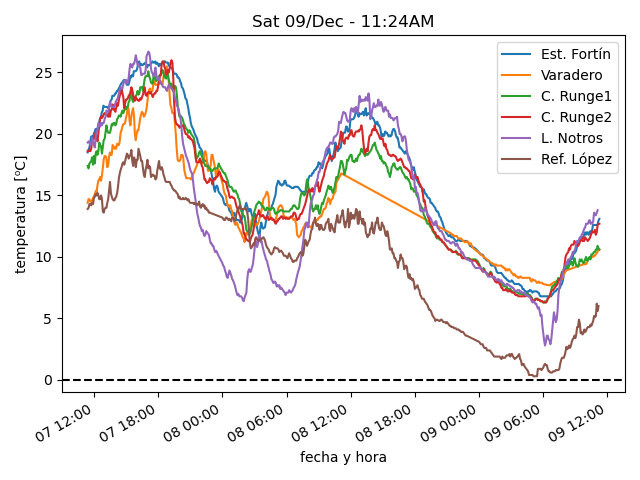
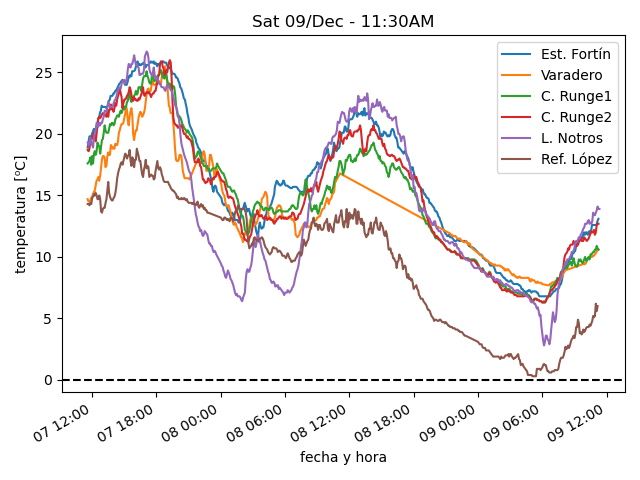
actualiza datos

diff --git a/estaciones/estacion5.html b/estaciones/estacion5.html
@@ -18,17 +18,17 @@
     </tr>
     <tr>
      <td class="stats_data">
-      11:05AM
+      11:20AM
      </td>
     </tr>
     <tr>
      <td class="stats_data">
-      13.8
+      13.9
      </td>
     </tr>
     <tr>
      <td class="stats_data">
-      4.8
+      5.1
      </td>
     </tr>
     <tr>
@@ -38,7 +38,7 @@
     </tr>
     <tr>
      <td class="stats_data">
-      1019.34
+      1019.3
      </td>
     </tr>
     <tr>
